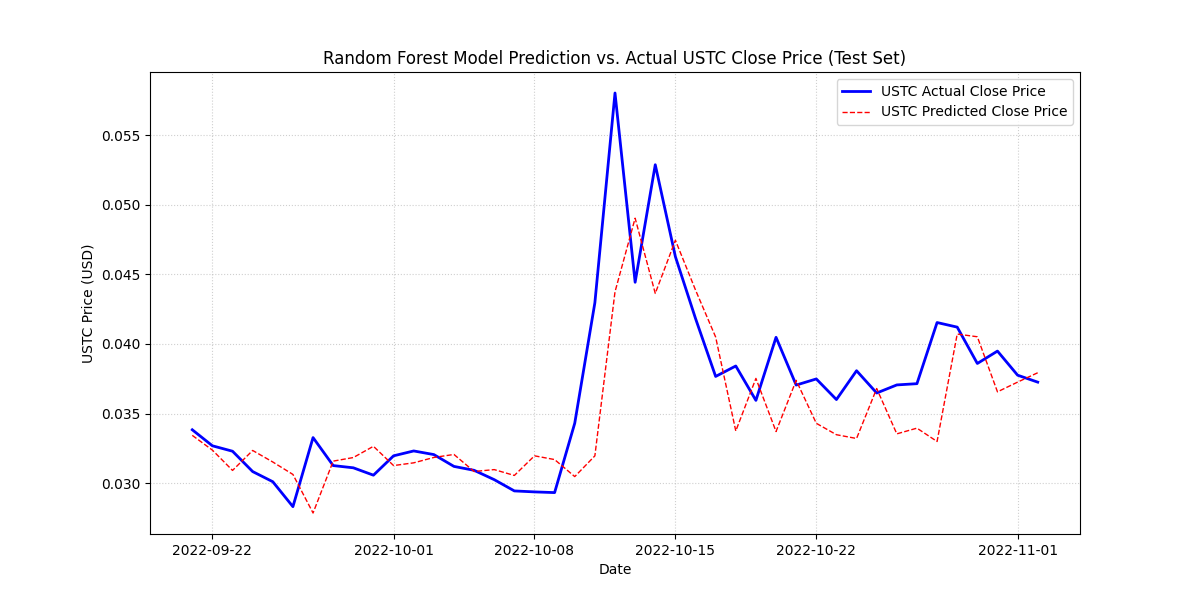
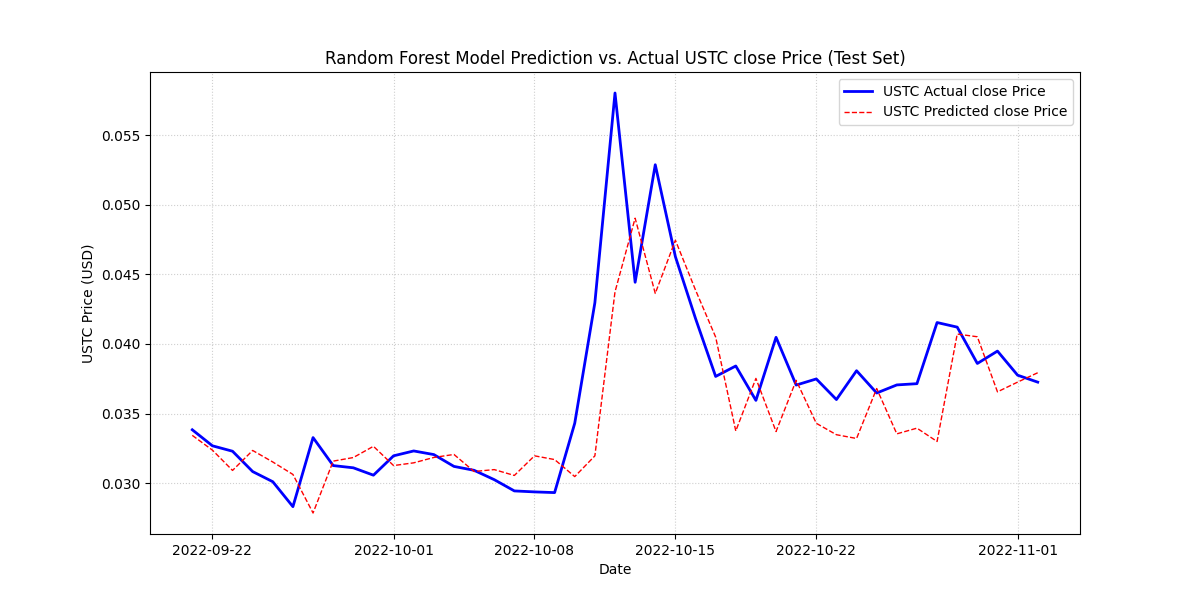
y is ustc close price using RF with Pipeline and Scaler - random state = 42 is finanalized

Changed region(s): [[0.2467, 0.09, 0.8325, 0.21]]

diff --git a/StablecoinAnalysis/stablecoin_depegging_analysis.py b/StablecoinAnalysis/stablecoin_depegging_analysis.py
@@ -86,9 +86,9 @@ df_price = df_price.sort_values(by=['datetime', 'stablecoin']) # ensure chronolo
 #     coin_data = df_price[df_price['stablecoin'] == coin]
 #     plt.plot(coin_data['datetime'], coin_data['close'], label=coin.upper())
 
-# plt.title('Daily Close Prices of Stablecoins and WLUNA')
+# plt.title('Daily close Prices of Stablecoins and WLUNA')
 # plt.xlabel('Date')
-# plt.ylabel('Close Price (USD)')
+# plt.ylabel('close Price (USD)')
 # plt.legend()
 # plt.grid(True)
 # plt.xticks(rotation=45)
@@ -232,7 +232,7 @@ df_price = df_price.sort_values(by=['datetime', 'stablecoin']) # ensure chronolo
 # sns.heatmap(corr_matrix, annot=True, fmt=".4f", cmap='coolwarm',
 #             cbar_kws={'label': 'Pearson Correlation Coefficient (ρ)'},
 #             linewidths=.5, linecolor='black')
-# plt.title('Correlation Matrix of Stablecoin/Asset Daily Close Prices')
+# plt.title('Correlation Matrix of Stablecoin/Asset Daily close Prices')
 # plt.xticks(rotation=45, ha='right')
 # plt.yticks(rotation=0)
 # plt.tight_layout()
@@ -307,7 +307,7 @@ y_pred = pipeline.predict(X_test)
 mse = mean_squared_error(y_test, y_pred)
 r2 = r2_score(y_test, y_pred)
 # Extract Feature Importance
-feature_importance = pd.Series(pipeline.feature_importances_, index=features).sort_values(ascending=False)
+feature_importance = pd.Series(pipeline.named_steps['rf'].feature_importances_, index=features).sort_values(ascending=False)
 
 
 print(f"Mean Squared Error (MSE): {mse}")
@@ -318,15 +318,15 @@ print("Feature Importance:\n", feature_importance)
 # visualiza the results
 # Create a DataFrame for plotting
 results_df = pd.DataFrame({
-    'Actual Close': y_test,
-    'Predicted Close': y_pred
+    'Actual close': y_test,
+    'Predicted close': y_pred
 })
 results_df.to_csv('prediction_results_data.csv')
 # Plotting the results
 plt.figure(figsize=(12, 6))
-plt.plot(results_df.index, results_df['Actual Close'], label='USTC Actual Close Price', color='blue', linewidth=2)
-plt.plot(results_df.index, results_df['Predicted Close'], label='USTC Predicted Close Price', color='red', linestyle='--', linewidth=1)
-plt.title('Random Forest Model Prediction vs. Actual USTC Close Price (Test Set)')
+plt.plot(results_df.index, results_df['Actual close'], label='USTC Actual close Price', color='blue', linewidth=2)
+plt.plot(results_df.index, results_df['Predicted close'], label='USTC Predicted close Price', color='red', linestyle='--', linewidth=1)
+plt.title('Random Forest Model Prediction vs. Actual USTC close Price (Test Set)')
 plt.xlabel('Date')
 plt.ylabel('USTC Price (USD)')
 plt.legend()
